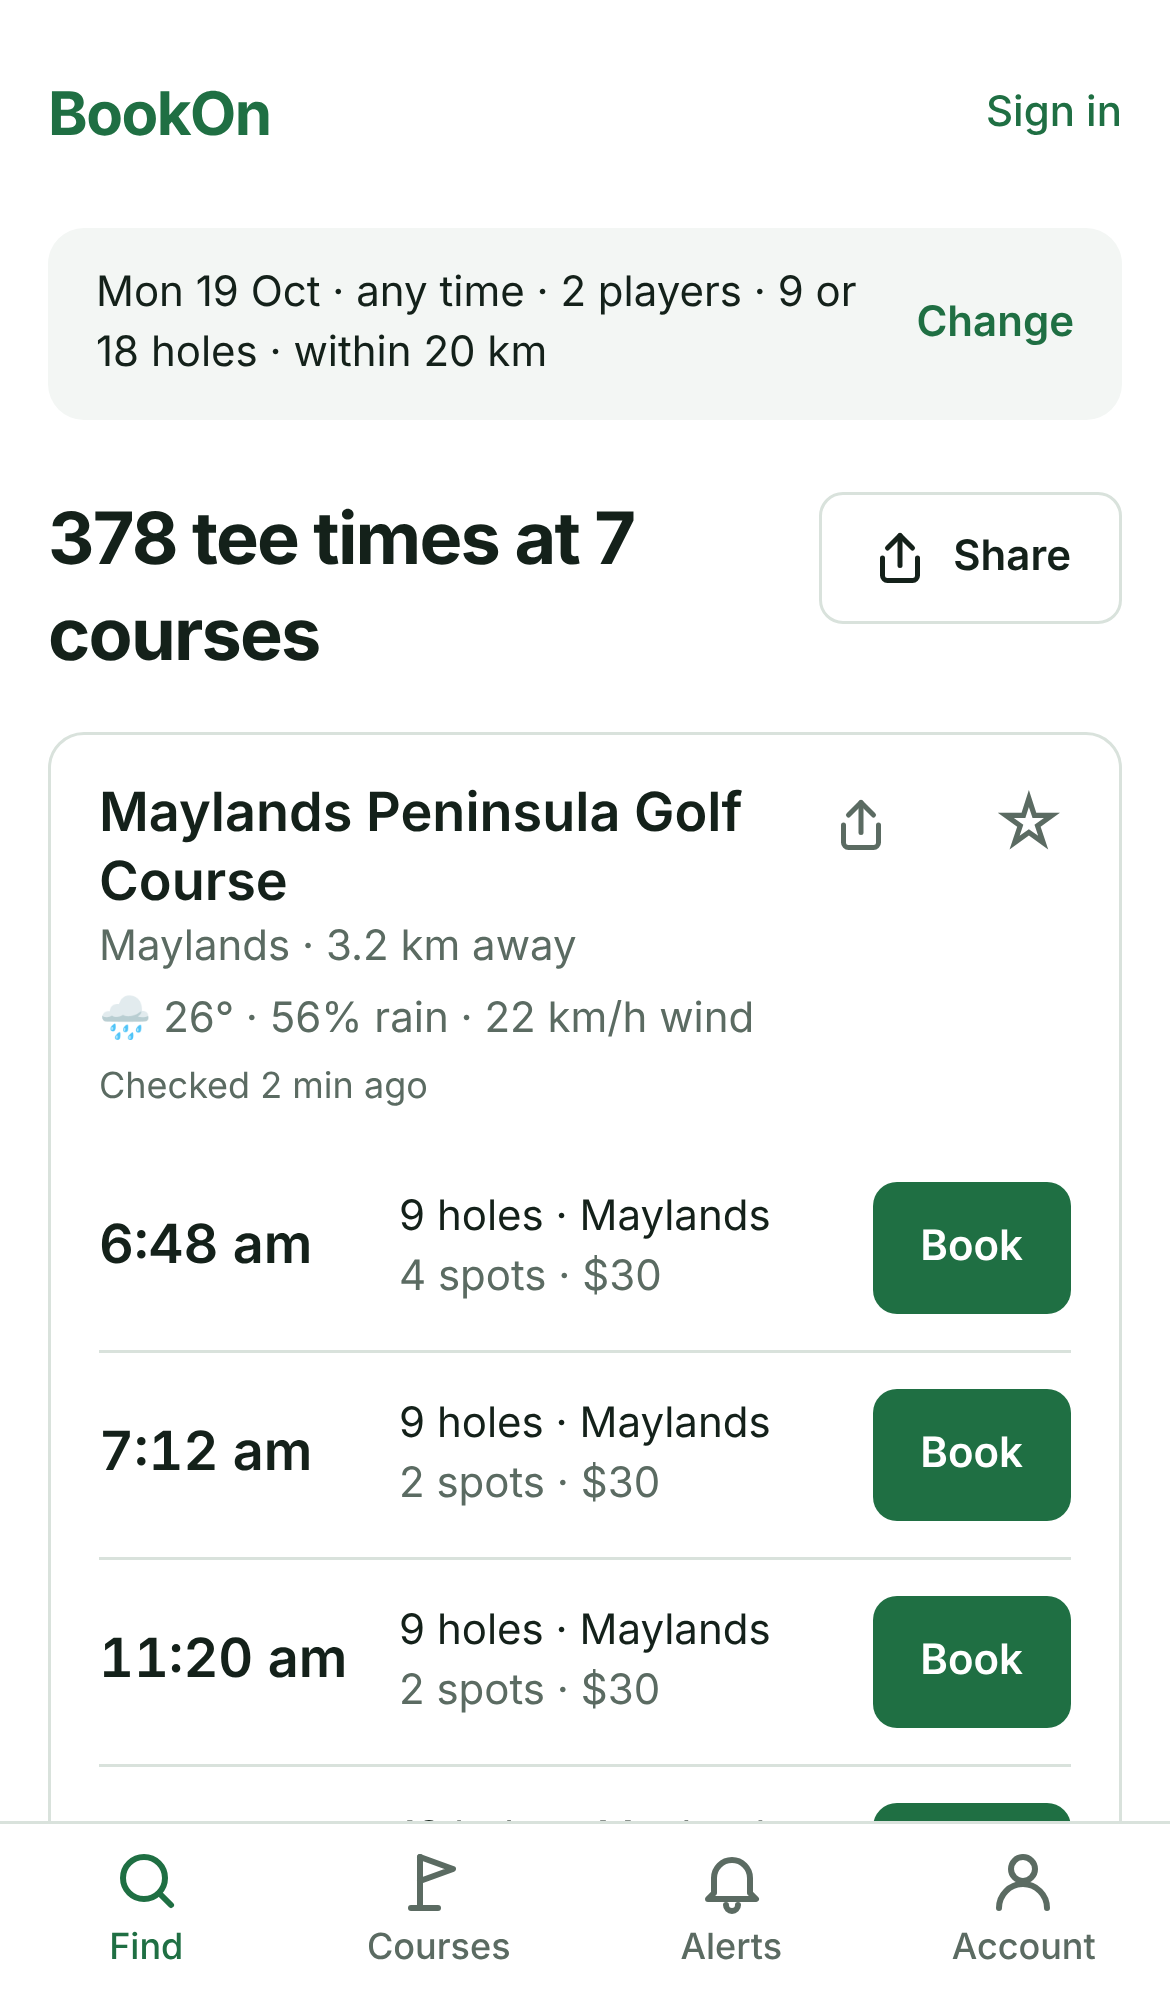
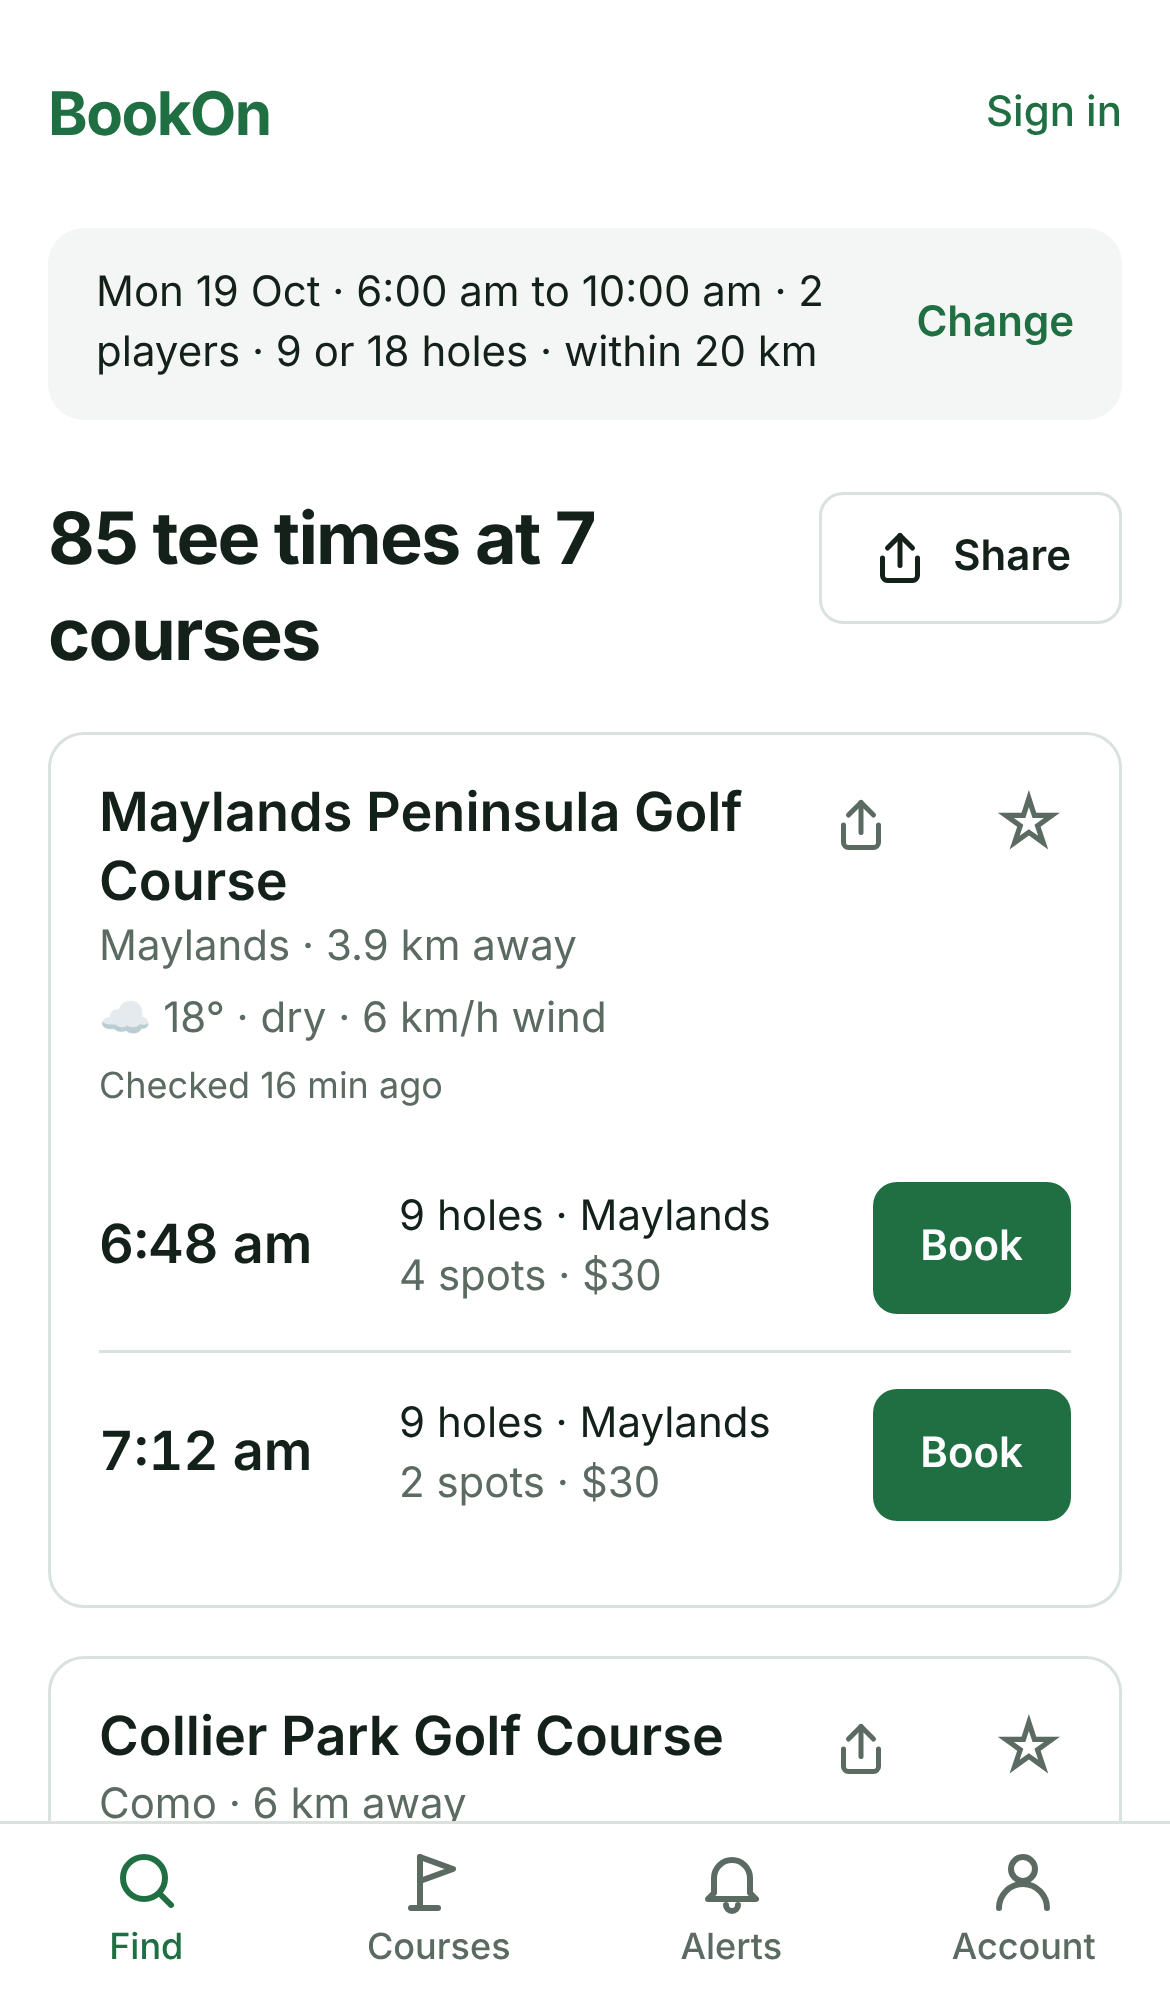
Add course locations and check live weather
All 29 courses located on OpenStreetMap (21 by name, 8 checked by hand
where the map uses a different name). The lookup no longer falls back to
"any golf course in the suburb", which matched the wrong club, and waits
and retries once when rate limited. Live MET Norway forecasts work; for
Australia they give rain amounts, not chances, so course pages show mm.

Claude-Session: https://claude.ai/code/session_011UsrvtojKzNg5QYZysThax

diff --git a/packages/db/src/course-locations.ts b/packages/db/src/course-locations.ts
@@ -11,4 +11,150 @@ export interface CourseLocation {
   source: string;
 }
 
-export const COURSE_LOCATIONS: Record<string, CourseLocation> = {};
+export const COURSE_LOCATIONS: Record<string, CourseLocation> = {
+  albany: {
+    latitude: -35.01192,
+    longitude: 117.91944,
+    source: "https://www.openstreetmap.org/way/129938365",
+  },
+  broome: {
+    latitude: -17.97762,
+    longitude: 122.21869,
+    source: "https://www.openstreetmap.org/way/173532435",
+  },
+  bunbury: {
+    latitude: -33.30313,
+    longitude: 115.71101,
+    source: "https://www.openstreetmap.org/way/5028299",
+  },
+  busselton: {
+    latitude: -33.69572,
+    longitude: 115.36475,
+    source: "https://www.openstreetmap.org/way/319645541",
+  },
+  capel: {
+    latitude: -33.45404,
+    longitude: 115.60139,
+    source: "https://www.openstreetmap.org/way/13769686",
+  },
+  "collier-park": {
+    latitude: -32.00113,
+    longitude: 115.8807,
+    source: "https://www.openstreetmap.org/way/5929275",
+  },
+  "dunsborough-lakes": {
+    latitude: -33.62584,
+    longitude: 115.11106,
+    source: "https://www.openstreetmap.org/relation/3357583",
+  },
+  "fremantle-public": {
+    latitude: -32.05268,
+    longitude: 115.76821,
+    source: "https://www.openstreetmap.org/way/336369278",
+  },
+  geraldton: {
+    latitude: -28.77322,
+    longitude: 114.63376,
+    source: "https://www.openstreetmap.org/way/181426255",
+  },
+  hamersley: {
+    latitude: -31.86653,
+    longitude: 115.76849,
+    source: "https://www.openstreetmap.org/way/4979763",
+  },
+  hartfield: {
+    latitude: -32.00128,
+    longitude: 116.00393,
+    source: "https://www.openstreetmap.org/way/25178542",
+  },
+  "joondalup-resort": {
+    latitude: -31.74749,
+    longitude: 115.75006,
+    source: "https://www.openstreetmap.org/relation/4298556",
+  },
+  karratha: {
+    latitude: -20.7222,
+    longitude: 116.85203,
+    source: "https://www.openstreetmap.org/way/385349202",
+  },
+  "kennedy-bay": {
+    latitude: -32.36715,
+    longitude: 115.73974,
+    source: "https://www.openstreetmap.org/way/1158723927",
+  },
+  kwinana: {
+    latitude: -32.24654,
+    longitude: 115.79705,
+    source: "https://www.openstreetmap.org/way/8070629",
+  },
+  "lake-claremont": {
+    latitude: -31.97744,
+    longitude: 115.77961,
+    source: "https://www.openstreetmap.org/way/438496706",
+  },
+  marangaroo: {
+    latitude: -31.82644,
+    longitude: 115.83148,
+    source: "https://www.openstreetmap.org/way/8109327",
+  },
+  "margaret-river": {
+    latitude: -33.9714,
+    longitude: 115.01733,
+    source: "https://www.openstreetmap.org/way/83021440",
+  },
+  maylands: {
+    latitude: -31.9456,
+    longitude: 115.9011,
+    source: "https://www.openstreetmap.org/way/24840179",
+  },
+  "meadow-springs": {
+    latitude: -32.50251,
+    longitude: 115.74633,
+    source: "https://www.openstreetmap.org/relation/4298420",
+  },
+  pinjarra: {
+    latitude: -32.61553,
+    longitude: 115.85958,
+    source: "https://www.openstreetmap.org/way/49911322",
+  },
+  "point-walter": {
+    latitude: -32.01908,
+    longitude: 115.78985,
+    source: "https://www.openstreetmap.org/way/8823444",
+  },
+  rockingham: {
+    latitude: -32.30053,
+    longitude: 115.77387,
+    source: "https://www.openstreetmap.org/way/19830263",
+  },
+  "secret-harbour": {
+    latitude: -32.41257,
+    longitude: 115.76416,
+    source: "https://www.openstreetmap.org/relation/4017008",
+  },
+  "sun-city": {
+    latitude: -31.54111,
+    longitude: 115.65299,
+    source: "https://www.openstreetmap.org/way/1463945496",
+  },
+  "the-cut": {
+    latitude: -32.61166,
+    longitude: 115.62904,
+    source: "https://www.openstreetmap.org/relation/4238188",
+  },
+  "the-springs": {
+    latitude: -32.15916,
+    longitude: 115.95625,
+    source: "https://www.openstreetmap.org/way/1288810070",
+  },
+  wembley: {
+    latitude: -31.92736,
+    longitude: 115.78079,
+    source: "https://www.openstreetmap.org/way/24990515",
+  },
+  whaleback: {
+    latitude: -32.05113,
+    longitude: 115.92605,
+    source: "https://www.openstreetmap.org/way/8051818",
+  },
+};

diff --git a/apps/worker/src/locate.ts b/apps/worker/src/locate.ts
@@ -27,7 +27,12 @@ async function search(query: string): Promise<Place[]> {
     countrycodes: "au",
     limit: "5",
   }).toString();
-  const response = await fetch(url, { headers: { "User-Agent": config.userAgent } });
+  let response = await fetch(url, { headers: { "User-Agent": config.userAgent } });
+  if (response.status === 429) {
+    // Asked too often (perhaps by another run just before): wait, then try once more.
+    await new Promise((r) => setTimeout(r, 10_000));
+    response = await fetch(url, { headers: { "User-Agent": config.userAgent } });
+  }
   if (!response.ok) throw new Error(`HTTP ${response.status} from OpenStreetMap`);
   return (await response.json()) as Place[];
 }
@@ -43,14 +48,14 @@ try {
   const found = { ...COURSE_LOCATIONS };
   for (const course of courses) {
     await pause();
-    let place = pickGolfCourse(await search(`${course.name}, ${course.suburb}, Western Australia`));
+    // Only the course's own name: "any golf course in that suburb" can find a different club.
+    const place = pickGolfCourse(
+      await search(`${course.name}, ${course.suburb}, Western Australia`),
+    );
     if (!place) {
-      // Clubs often go by a different name on the map.
-      await pause();
-      place = pickGolfCourse(await search(`golf, ${course.suburb}, Western Australia`));
-    }
-    if (!place) {
-      console.log(`✗ ${course.name} (${course.suburb}): not found. Set it in admin instead.`);
+      console.log(
+        `✗ ${course.name} (${course.suburb}): not found. Search openstreetmap.org for the name the map uses, and set it in admin.`,
+      );
       continue;
     }
     const location = placeLocation(place);

diff --git a/apps/worker/src/weather.test.ts b/apps/worker/src/weather.test.ts
@@ -54,7 +54,12 @@ function fakeMet(responses: Response[]) {
 describe("refreshWeather", () => {
   it("fetches courses with a location, saves the forecast, then waits until it expires", async () => {
     const collier = (await findCourseBySlug(handle.db, "collier-park"))!;
-    const wembley = (await findCourseBySlug(handle.db, "wembley"))!;
+    // A course with no location yet is skipped.
+    const unplaced = {
+      ...(await findCourseBySlug(handle.db, "wembley"))!,
+      latitude: null,
+      longitude: null,
+    };
     const met = fakeMet([
       new Response(JSON.stringify(body), {
         headers: {
@@ -64,7 +69,7 @@ describe("refreshWeather", () => {
       }),
     ]);
     const options = { userAgent: "BookOnBot/test", now, fetch: met.fetch, gapMs: 0 };
-    const first = await refreshWeather(handle.db, [collier, wembley], options);
+    const first = await refreshWeather(handle.db, [collier, unplaced], options);
     expect(first).toEqual({ fetched: 1, unchanged: 0, skipped: 1, failed: 0 });
     expect(met.calls[0]!.url).toBe(
       "https://api.met.no/weatherapi/locationforecast/2.0/complete?lat=-32.0000&lon=115.8712",

diff --git a/apps/web/src/app/courses/[slug]/page.tsx b/apps/web/src/app/courses/[slug]/page.tsx
@@ -239,9 +239,13 @@ export default async function CoursePage({ params }: { params: Promise<{ slug: s
                               {weatherEmoji(w.symbol)}
                             </span>{" "}
                             {w.temperature}°
-                            {w.rainChance !== null && w.rainChance >= 20
-                              ? ` · ${w.rainChance}% rain`
-                              : ""}
+                            {w.rainChance !== null
+                              ? w.rainChance >= 20
+                                ? ` · ${w.rainChance}% rain`
+                                : ""
+                              : w.rainMm >= 0.5
+                                ? ` · ${w.rainMm} mm rain`
+                                : ""}
                           </span>
                         )}
                       </span>

diff --git a/docs/m10-review.md b/docs/m10-review.md
@@ -8,16 +8,12 @@
 
 The tee time search itself works as before. Hardening and launch move to Milestone 11 (recorded in SPEC.md).
 
-**Two things still need doing outside the code.** This cloud environment can't reach OpenStreetMap or MET Norway, so:
-
-1. **Course locations aren't filled in yet.** Until they are, Near me stays hidden and there's no weather. Run `pnpm courses:locate`, check the links, then `pnpm courses:locate -- --save` (see "How to demo"). Or allow those two sites for this environment and I'll do it.
-2. **The weather code was tested against MET Norway's documented format, not a live reply.** Check the first live run.
+**Update, later on 18 October:** once you opened up network access, I looked up every course's location on OpenStreetMap and fetched live forecasts from MET Norway. See "Locations and live weather" below.
 
 **About the screenshots:**
 
-- Near me and weather screenshots use **sample locations and a made-up forecast**, added to my local test database only. They're not in the code or your data.
-- The "with club details" course page uses a **sample club profile and price list**, also removed afterwards.
-- Tee times are real, from a worker check that morning.
+- The Near me results, Courses with Near me and course page screenshots use **real locations, real weather and real tee times**.
+- The "with club details" course page uses a **sample club profile and price list**, added to my local test database and removed afterwards.
 
 ## What was done
 
@@ -95,6 +91,22 @@ Below the search, in this order. [Screenshot](./m10/m10-home-phone.png).
   - Golfers' pages only read what's saved, so they never wait on it. "Weather from MET Norway" is credited wherever it shows.
 - **Loading placeholders** on the courses, course and account pages.
 
+## Locations and live weather
+
+**Locations:** all 29 courses, including the three switched off, are in `packages/db/src/course-locations.ts`. New databases get them from the seed.
+
+- 21 courses were found by `pnpm courses:locate` under their own names.
+- 8 are mapped under different names, so I found and checked those by hand: Busselton, Dunsborough Lakes, Lake Claremont ("Claremont Golf Course", beside the lake), Secret Harbour, Capel (Stratham), Hamersley (Marmion Avenue, Trigg), Hartfield ("Hartfield Country Club") and Rockingham (Cooloongup).
+- Every match is an OpenStreetMap golf course with the right name and street. The file links each one.
+- The lookup used to fall back to "any golf course in that suburb". That matched three test clubs to Royal Perth Golf Club, so I removed it. A course it can't find is now reported for a person to set.
+
+**Weather:**
+
+- All 26 live courses got a forecast: hourly for about 2½ days, then 6-hourly out to 9 days.
+- A second run straight after asked for nothing, because it waits for MET Norway's "expires" time.
+- **MET Norway doesn't give a chance of rain for Australia**, only expected millimetres. So the site shows "dry" or "2 mm rain" rather than a percentage.
+- On a Near me search from the Perth CBD for Monday morning, Maylands (3.9 km) showed "☁ 18° · dry · 6 km/h wind".
+
 ## Checked
 
 | Check                      | Result                                                                                                                                                                                                                            |
@@ -124,17 +136,15 @@ The phone run went through:
 ## Decisions I made
 
 1. **Weather shows the worst sky in your window** (rain beats sunshine), the warmest temperature, and the highest chance of rain and wind. That way nobody is caught out.
-2. **Rain chance where MET Norway gives it, otherwise millimetres.** Further out, MET Norway gives rain amounts rather than chances, so it reads "4 mm rain".
+2. **Rain in millimetres.** MET Norway only gives a chance of rain for some countries, not Australia, so it reads "dry" or "4 mm rain". If it ever sends a chance, that shows instead.
 3. **Free soon** uses 2 players and leaves out times starting within 15 minutes.
 4. **Near me only appears once courses have locations,** so it's never a button that does nothing.
 5. **Courses without an area** show under "Other", so a newly approved club is never hidden.
 
 ## Open issues
 
-1. **Course locations:** run the lookup (above). Wembley, The Springs and Lake Claremont are switched off but will be located too.
-2. **Live weather check:** after the locations are in, run `pnpm weather` and look at a course page.
-3. **Share pictures don't include the weather.** I left that out to keep the picture simple; say if you'd like it.
-4. **The seeded clubs have no details or prices yet.** Their pages fill in once each club adds them, or an admin adds a club contact who does.
+1. **Share pictures don't include the weather.** I left that out to keep the picture simple; say if you'd like it.
+2. **The seeded clubs have no details or prices yet.** Their pages fill in once each club adds them, or an admin adds a club contact who does.
 
 ## How to demo (on your PC)
 
@@ -146,12 +156,6 @@ pnpm dev:worker                # window 2, keep running
 pnpm dev                       # window 3
 ```
 
-To turn on Near me and the weather, in another window:
-
-```powershell
-pnpm courses:locate                  # prints each course it found, with a map link
-pnpm courses:locate -- --save        # once the links look right
-pnpm weather                         # fetch forecasts now (the worker also does this)
-```
+Locations come with the update, and the worker fetches the weather when it starts (or run `pnpm weather`).
 
 Then open http://localhost:3000 on a narrow window or your phone (`http://<your PC's name>:3000`, same wifi). Try the menu bar, quick days, the Where row and Near me, the Courses tab, a course page and My account. On a phone, Near me needs the site on https (or localhost) to ask for your location, so it fully works once hosted.

diff --git a/docs/platforms.md b/docs/platforms.md
@@ -267,11 +267,11 @@ The owner approved weather and Near me on 18 October 2026. Neither is a booking 
 - **Terms:** free, including commercial use, under CC BY 4.0. Credit them where the weather shows ("Weather from MET Norway", linked). Identify ourselves in the user agent with a contact, don't ask again before the `Expires` time, send `If-Modified-Since`, use at most 4 decimals for locations, keep traffic gentle. See https://api.met.no/doc/TermsOfService.
 - **How we use it:** `apps/worker/src/weather.ts`, once per course per forecast update (about hourly), one request a second. Stored in `weather_forecasts`.
 - **Why not others:** Open-Meteo's free service is for non-commercial use only. The Bureau of Meteorology has no public feed for businesses without a paid agreement.
-- **Not checked live yet:** the cloud environment couldn't reach api.met.no, so the code was tested against MET Norway's documented response format. Check the first live run (`pnpm weather`).
+- **Checked live 18 October 2026:** all 26 live courses fetched. For Australia MET Norway gives rain amounts but no chance of rain, so the site shows millimetres.
 
 ### OpenStreetMap course locations (nominatim.openstreetmap.org)
 
 - **What:** Nominatim search, to find each course's latitude and longitude once.
 - **Terms:** light use is allowed (at most one request a second, a user agent that names us, no bulk or repeated geocoding). Data © OpenStreetMap contributors, ODbL. See https://operations.osmfoundation.org/policies/nominatim/.
 - **How we use it:** `pnpm courses:locate` (`apps/worker/src/locate.ts`) prints what it finds for a person to check, and saves only with `--save`. Results go in `packages/db/src/course-locations.ts` and the database. Admins can correct any course.
-- **Not run yet:** the cloud environment couldn't reach nominatim.openstreetmap.org.
+- **Run 18 October 2026:** 21 courses found by name. 8 that the map names differently were found and checked by hand. All 29 are in `course-locations.ts`.

diff --git a/docs/launch-checklist.md b/docs/launch-checklist.md
@@ -13,7 +13,7 @@ Data is read from public booking pages with the owner's approval, ahead of forma
 
 ## Other data sources (Milestone 10)
 
-- [ ] **Course locations.** Run `pnpm courses:locate`, check each link it prints, then `pnpm courses:locate -- --save` and commit `packages/db/src/course-locations.ts`. Until then Near me stays hidden and there's no weather. Fix any course in admin (Courses → the course → Latitude and Longitude).
+- [x] **Course locations.** All 29 found and checked on 18 October 2026. For a new course, run `pnpm courses:locate` (then `-- --save`), or set it in admin (Courses → the course → Latitude and Longitude).
 - [ ] **Weather.** Check the worker logs `[weather] N updated` on the host. MET Norway asks that our user agent names us and gives a contact (it does: `BOOKON_CONTACT_EMAIL`), and that the credit "Weather from MET Norway" stays wherever forecasts show.
 - [ ] The privacy policy mentions Near me: the phone's location is rounded to about a kilometre, used for that search only and never saved.
 
